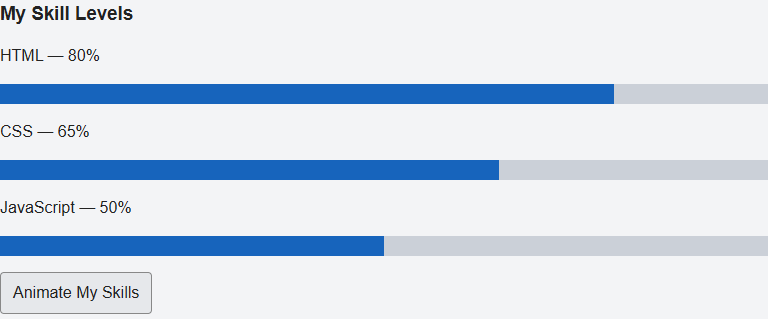
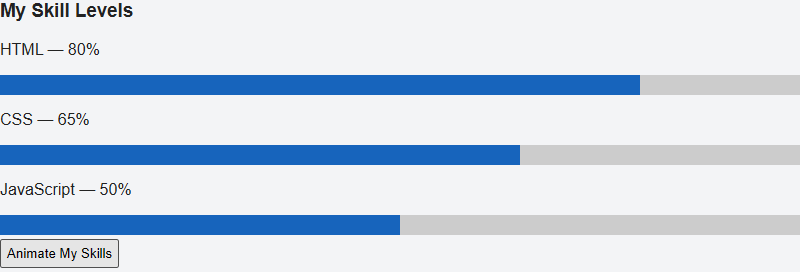
assignment6

diff --git a/script.js b/script.js
@@ -61,7 +61,6 @@ $(document).ready(function () {
     let skill = $("#new-skill").val().trim();
     if (skill !== "") {
       $("#skill-list").append($("<li>").text(skill));
-      $("#new-skill").val("");
     }
   });
 
@@ -69,7 +68,6 @@ $(document).ready(function () {
     let skill = $("#new-skill").val().trim();
     if (skill !== "") {
       $("#skill-list").prepend($("<li>").text(skill));
-      $("#new-skill").val("");
     }
   });
 
@@ -80,7 +78,6 @@ $(document).ready(function () {
   // Task 6
   $("#change-link").click(function () {
     $("#social-link").attr("href", "https://github.com/Eralyy?tab=repositories");
-    $("#social-link").text("My GitHub Repositories");
   });
 
   // Task 7
@@ -92,21 +89,17 @@ $(document).ready(function () {
     $("#live-email").text($("#email").val());
   });
 
-  $("#contact-form").on("submit", function (event) {
-    event.preventDefault();
-  });
-
   // Task 8
   let skillsVisible = false;
 
   $("#animate-skills").click(function () {
     if (skillsVisible === false) {
-      $("#html-bar").stop().animate({ width: "80%" }, 800);
-      $("#css-bar").stop().animate({ width: "65%" }, 800);
-      $("#js-bar").stop().animate({ width: "50%" }, 800);
+      $("#html-bar").animate({ width: "80%" }, 800);
+      $("#css-bar").animate({ width: "65%" }, 800);
+      $("#js-bar").animate({ width: "50%" }, 800);
       skillsVisible = true;
     } else {
-      $(".skill-bar").stop().animate({ width: "0%" }, 800);
+      $(".skill-bar").animate({ width: "0%" }, 800);
       skillsVisible = false;
     }
   });

diff --git a/style.css b/style.css
@@ -1,107 +1,42 @@
-* {
-  box-sizing: border-box;
-}
-
 body {
-  margin: 0;
-  background: #f3f4f6;
-  color: #222;
+  margin: 20px;
   font-family: Arial, sans-serif;
-  line-height: 1.5;
 }
 
 main {
-  max-width: 850px;
-  margin: 24px auto;
-  padding: 0 16px;
+  max-width: 800px;
+  margin: auto;
 }
 
 header, section {
-  margin-bottom: 20px;
-  padding: 24px;
-  border: 1px solid #aaa;
-  border-radius: 6px;
-}
-
-h1, h2 {
-  margin-top: 0;
-}
-
-h1 {
-  font-size: 28px;
+  margin-bottom: 30px;
 }
 
 button, input {
-  padding: 8px 12px;
-  margin: 4px 4px 4px 0;
-  border: 1px solid #888;
-  border-radius: 4px;
-  font: inherit;
-}
-
-button {
-  cursor: pointer;
-  background: #e6e8eb;
-  color: #222;
-}
-
-button:hover {
-  background: #d0d4da;
+  margin: 4px 0;
+  padding: 5px;
 }
 
 label {
   display: block;
 }
 
-input {
-  width: 100%;
-  max-width: 360px;
-}
-
-a {
-  color: #1764bc;
-}
-
-.photos {
-  display: flex;
-  flex-wrap: wrap;
-  gap: 16px;
-  margin-bottom: 12px;
-}
-
 .photos img {
   max-width: 100%;
-  object-fit: cover;
-  border-radius: 4px;
-}
-
-h3 {
-  margin-bottom: 8px;
-}
-
-.panel-title {
-  width: 100%;
-  text-align: left;
-  font-weight: bold;
+  height: auto;
 }
 
 .panel {
   display: none;
-  padding: 0 12px;
-  border-left: 3px solid #888;
 }
 
 .skill-track {
-  background: #cbd0d8;
   height: 20px;
+  background: #ccc;
 }
 
 .skill-bar {
   width: 0;
   height: 100%;
   background: #1764bc;
-}
-
-#animate-skills {
-  margin-top: 16px;
 }

diff --git a/index.html b/index.html
@@ -4,7 +4,6 @@
   <meta charset="UTF-8">
   <meta name="viewport" content="width=device-width, initial-scale=1.0">
   <title>Yerali Karkinbayev | Portfolio</title>
-  <link rel="icon" href="data:,">
   <link rel="stylesheet" href="style.css">
 </head>
 <body>
@@ -36,8 +35,8 @@
       <h2>My Gallery</h2>
       <p>Images used in my photography project.</p>
       <div class="photos">
-        <img src="images/forest-path.jpg" alt="Forest path from my photography project" width="320" height="200">
-        <img src="images/city-skyline.jpg" alt="City skyline from my photography project" width="320" height="200">
+        <img src="forest-path.jpg" alt="Forest path" width="300" height="200">
+        <img src="city-skyline.jpg" alt="City skyline" width="300" height="200">
       </div>
       <button id="fade-in">Fade In</button>
       <button id="fade-out">Fade Out</button>
@@ -86,7 +85,7 @@
 
     <section id="social">
       <h2>My Links</h2>
-      <p><a id="social-link" href="https://github.com/Eralyy">My GitHub Profile</a></p>
+      <p><a id="social-link" href="https://github.com/Eralyy">My GitHub</a></p>
       <button id="change-link">Show My Repositories</button>
     </section>
 
